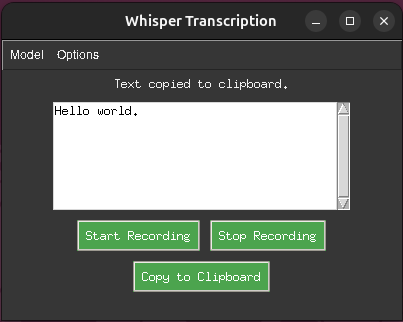
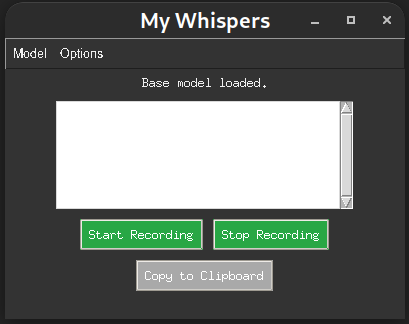
name changes

diff --git a/my_whispers_app.py b/my_whispers_app.py
@@ -56,7 +56,7 @@ def record_audio(filename="audio.wav"):
 class AppGUI:
     def __init__(self, root):
         self.root = root
-        self.root.title("Whisper Transcription")
+        self.root.title("My Whispers")
         self.root.geometry("400x250")
         self.root.attributes('-topmost', True)
 

diff --git a/README.md b/README.md
@@ -56,7 +56,7 @@ You can install the required dependencies using the `requirements.yml` file.
 1. Run the application:
 
    ```sh
-   python3 whisper_app.py
+   python3 my_whispers_app.py
    ```
 2. Use the GUI to start recording, stop recording, and transcribe audio.
 3. In the first run, you need to select the model you want to use. You can select the model from the dropdown menu and it will be downloaded automatically and can be used in the next runs.
